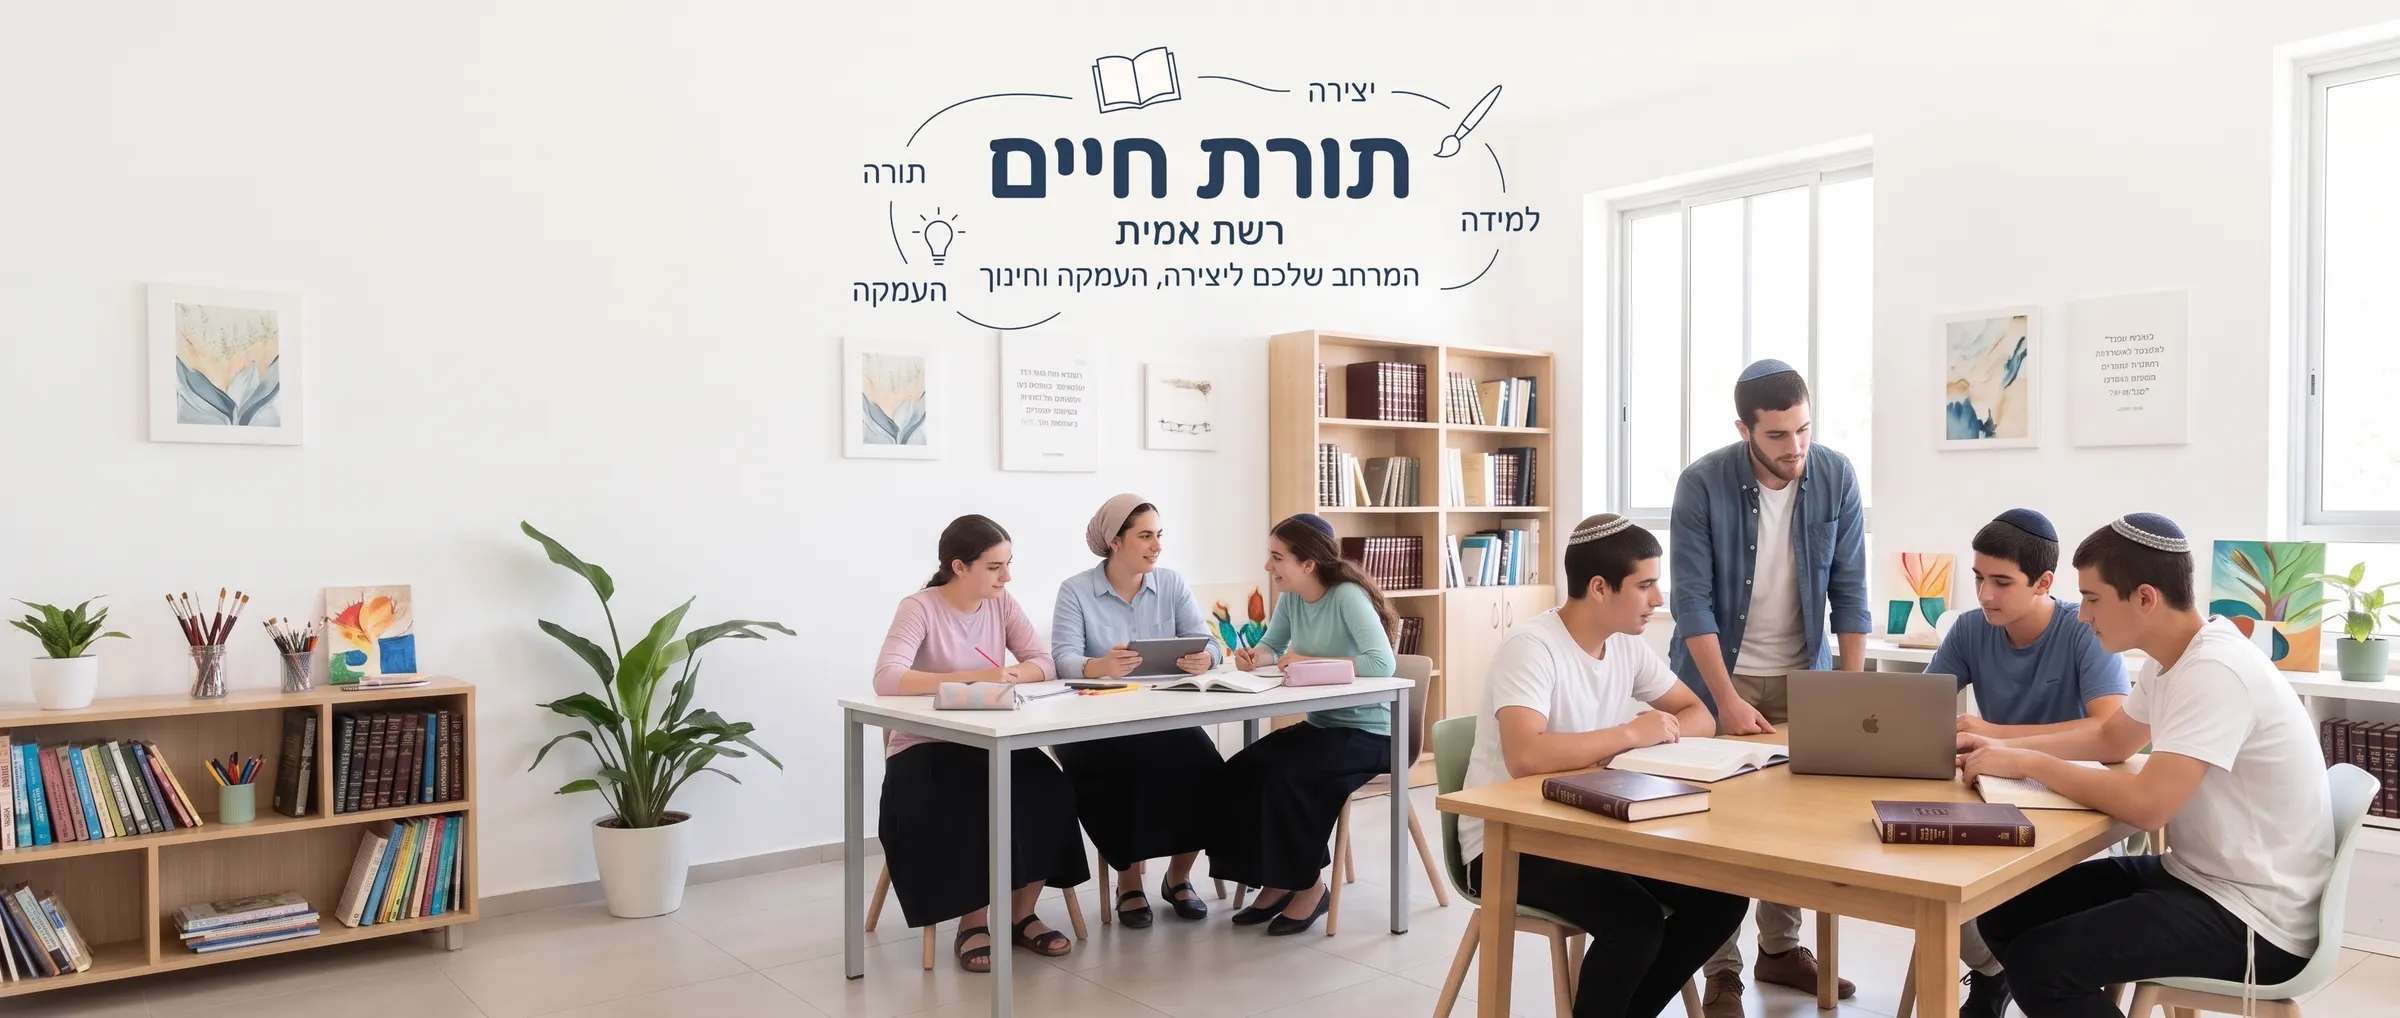
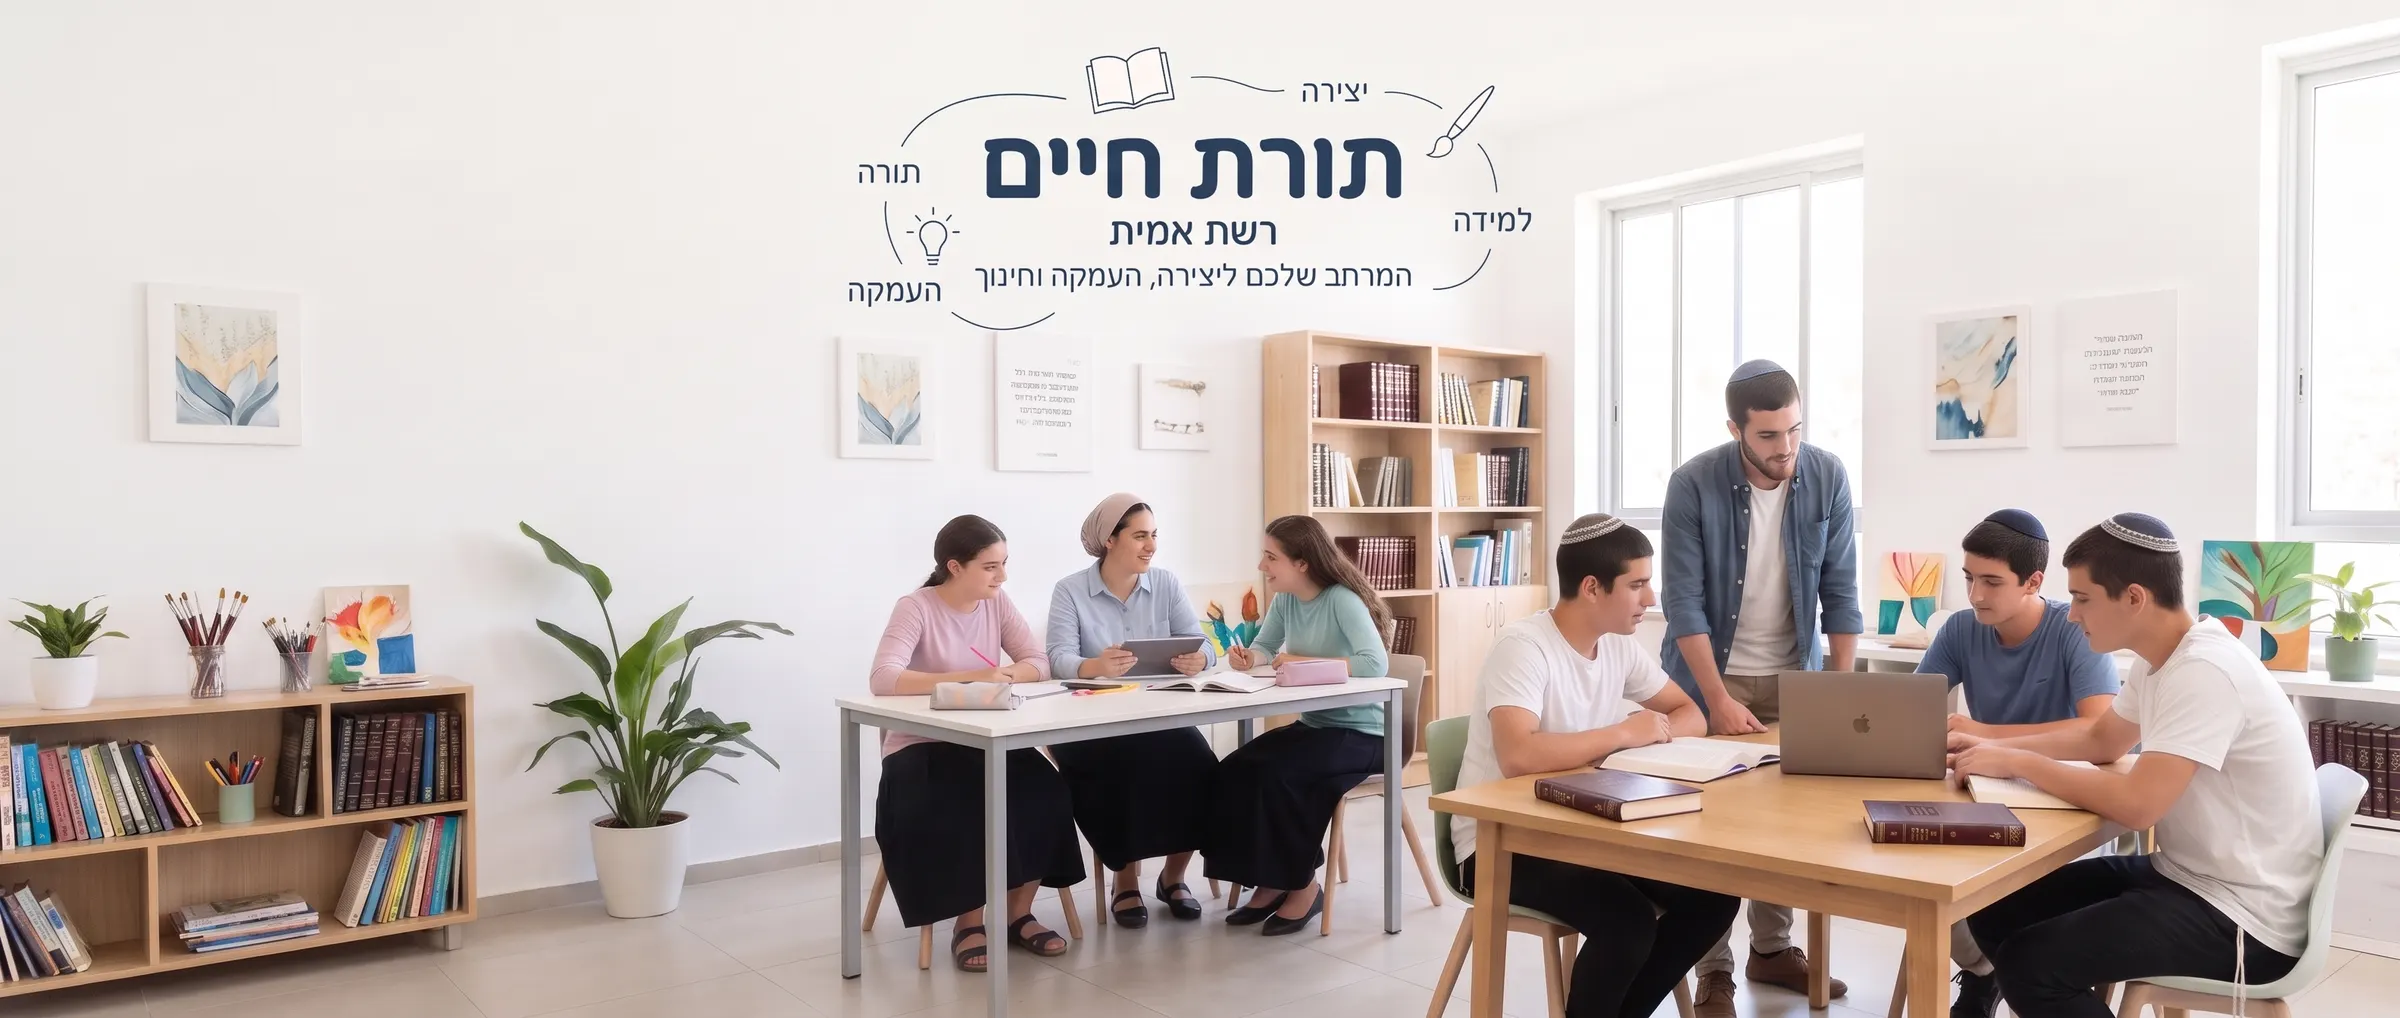
Hero photo: remove the kippah Gemini put on one of the girls

diff --git a/index.html b/index.html
@@ -78,8 +78,8 @@
 <!-- ═══ HERO ═══ -->
 <section class="hero" id="home" role="banner">
   <picture>
-    <source media="(max-width: 768px)" srcset="hero-mobile.webp" width="1100" height="1366" />
-    <img src="hero-desktop.webp" width="2400" height="1018" class="hero-photo" fetchpriority="high"
+    <source media="(max-width: 768px)" srcset="hero-mobile.webp?v=2" width="1100" height="1366" />
+    <img src="hero-desktop.webp?v=2" width="2400" height="1018" class="hero-photo" fetchpriority="high"
       alt="תורת חיים, רשת אמית – המרחב שלכם ליצירה, העמקה וחינוך. תלמידות ותלמידים לומדים בכיתה עם מורה ומורה" />
   </picture>
   <div class="hero-logos">
